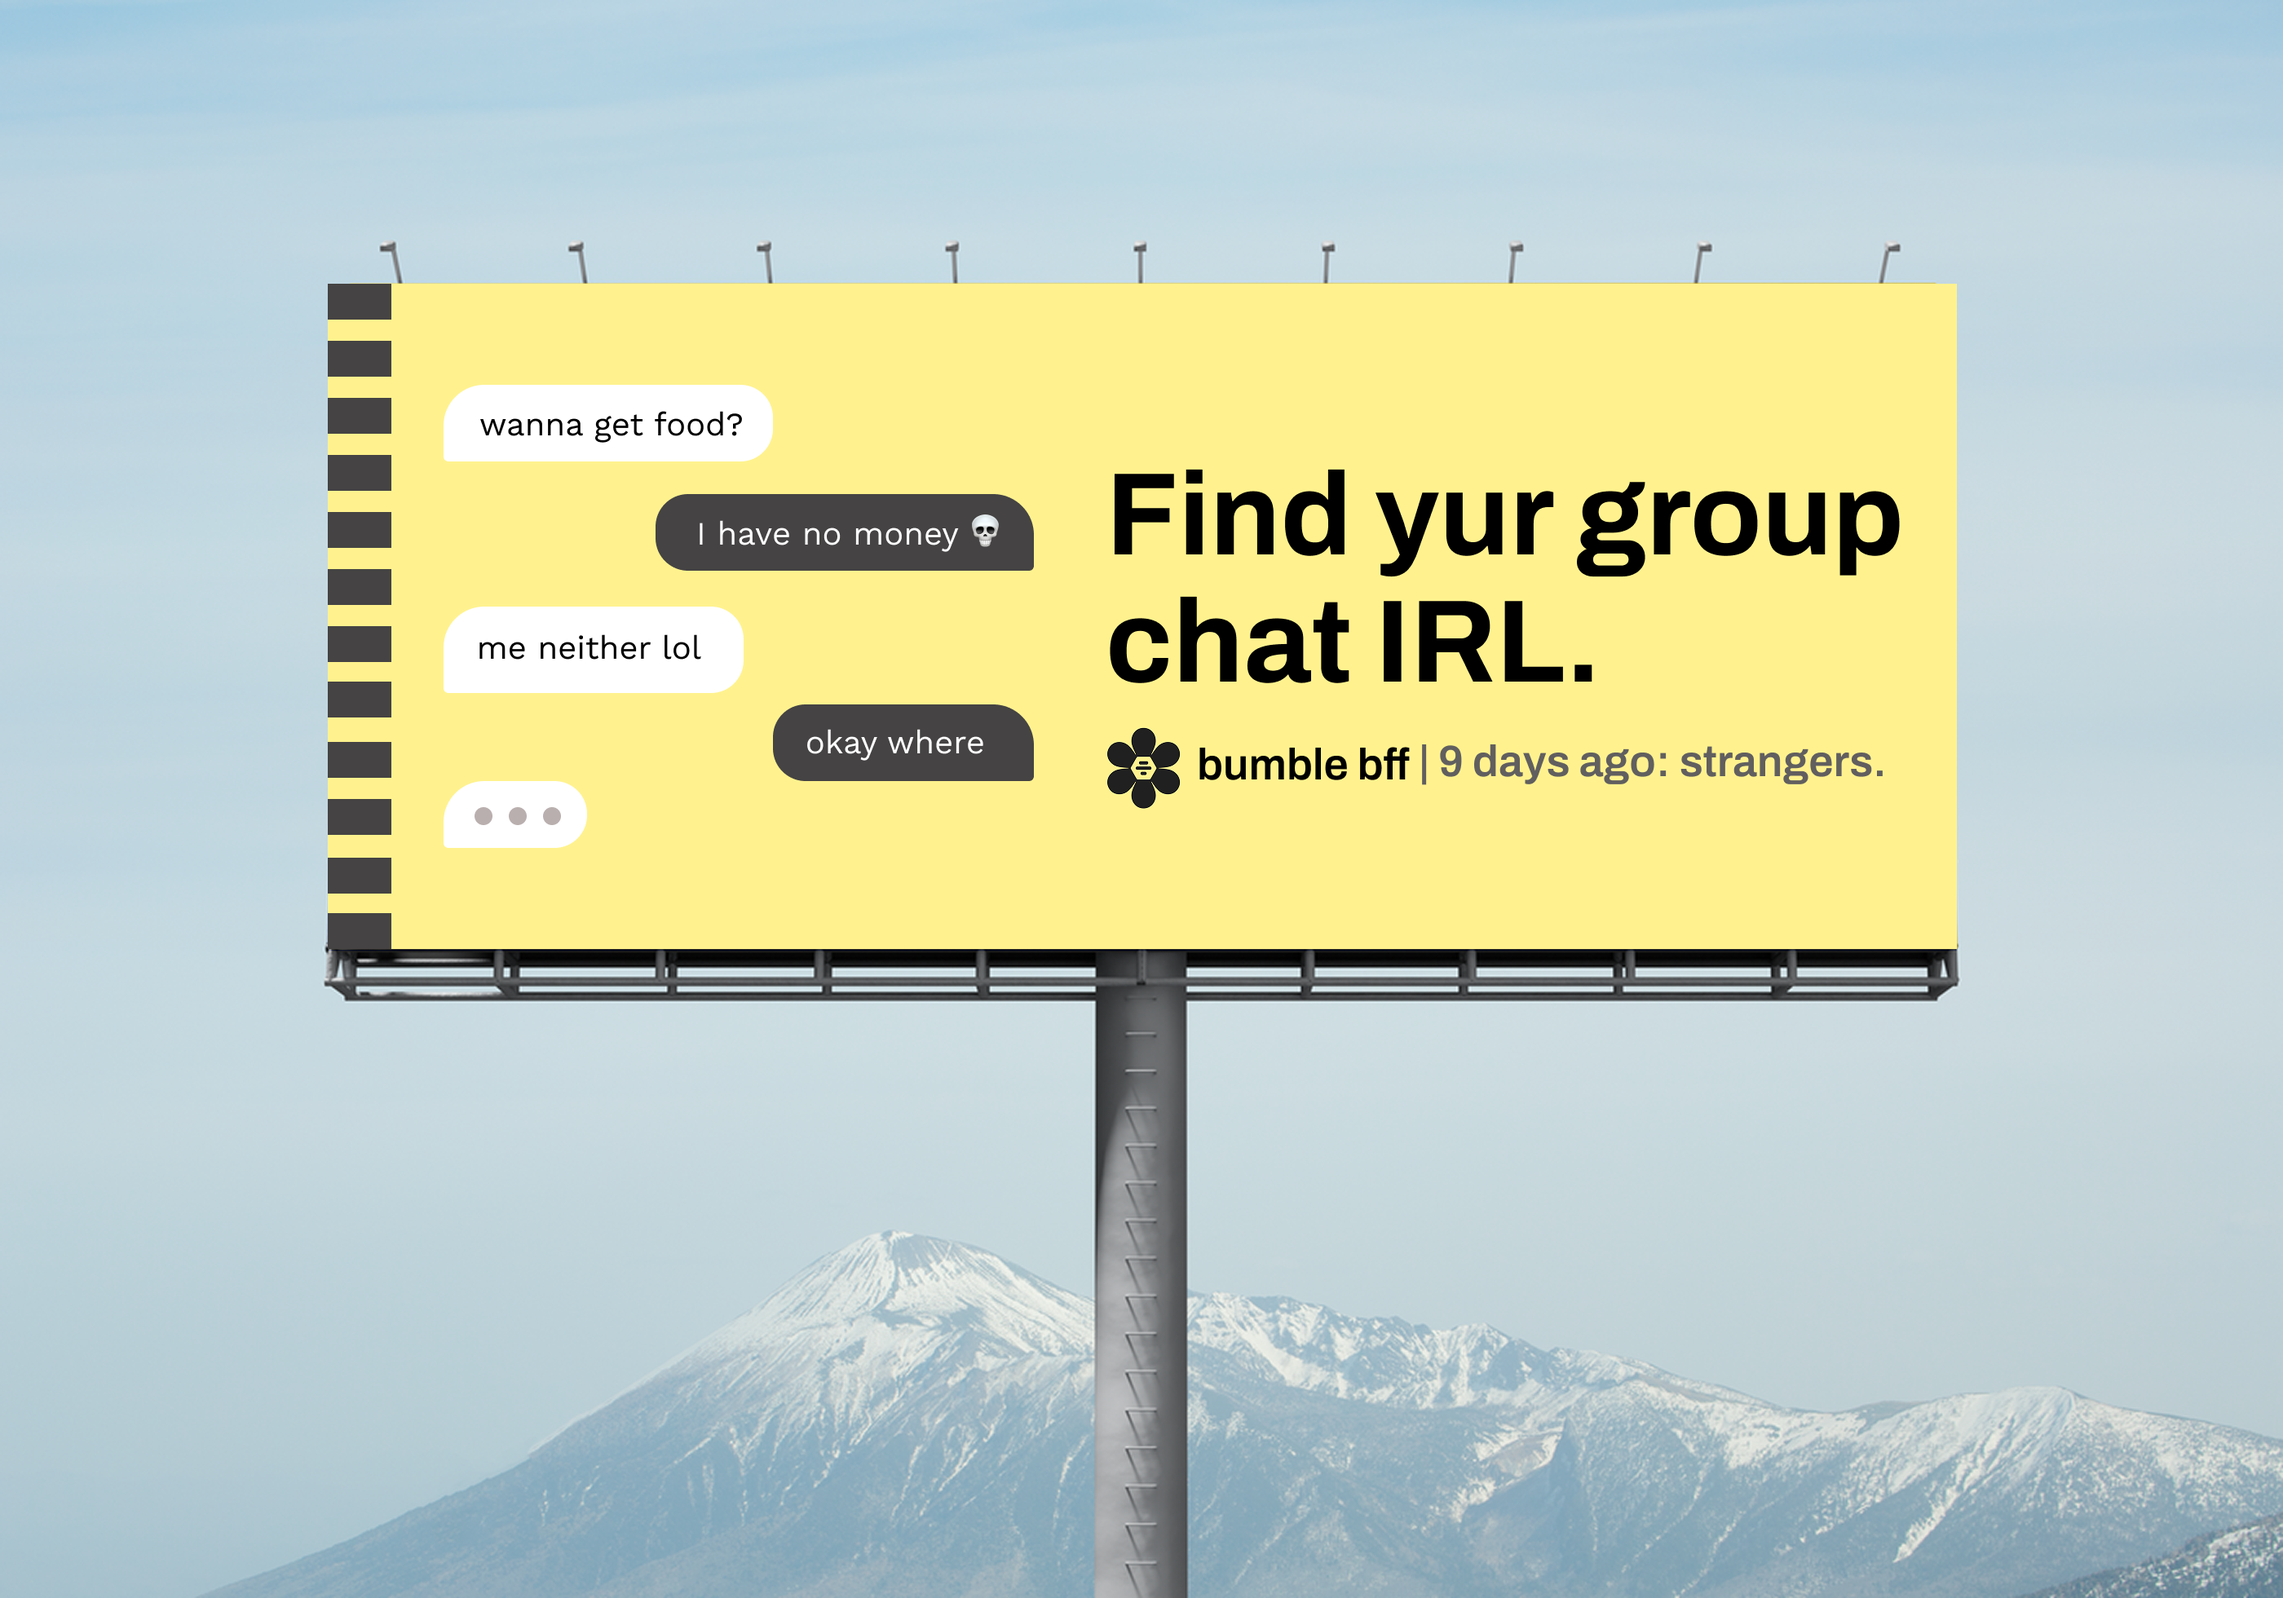
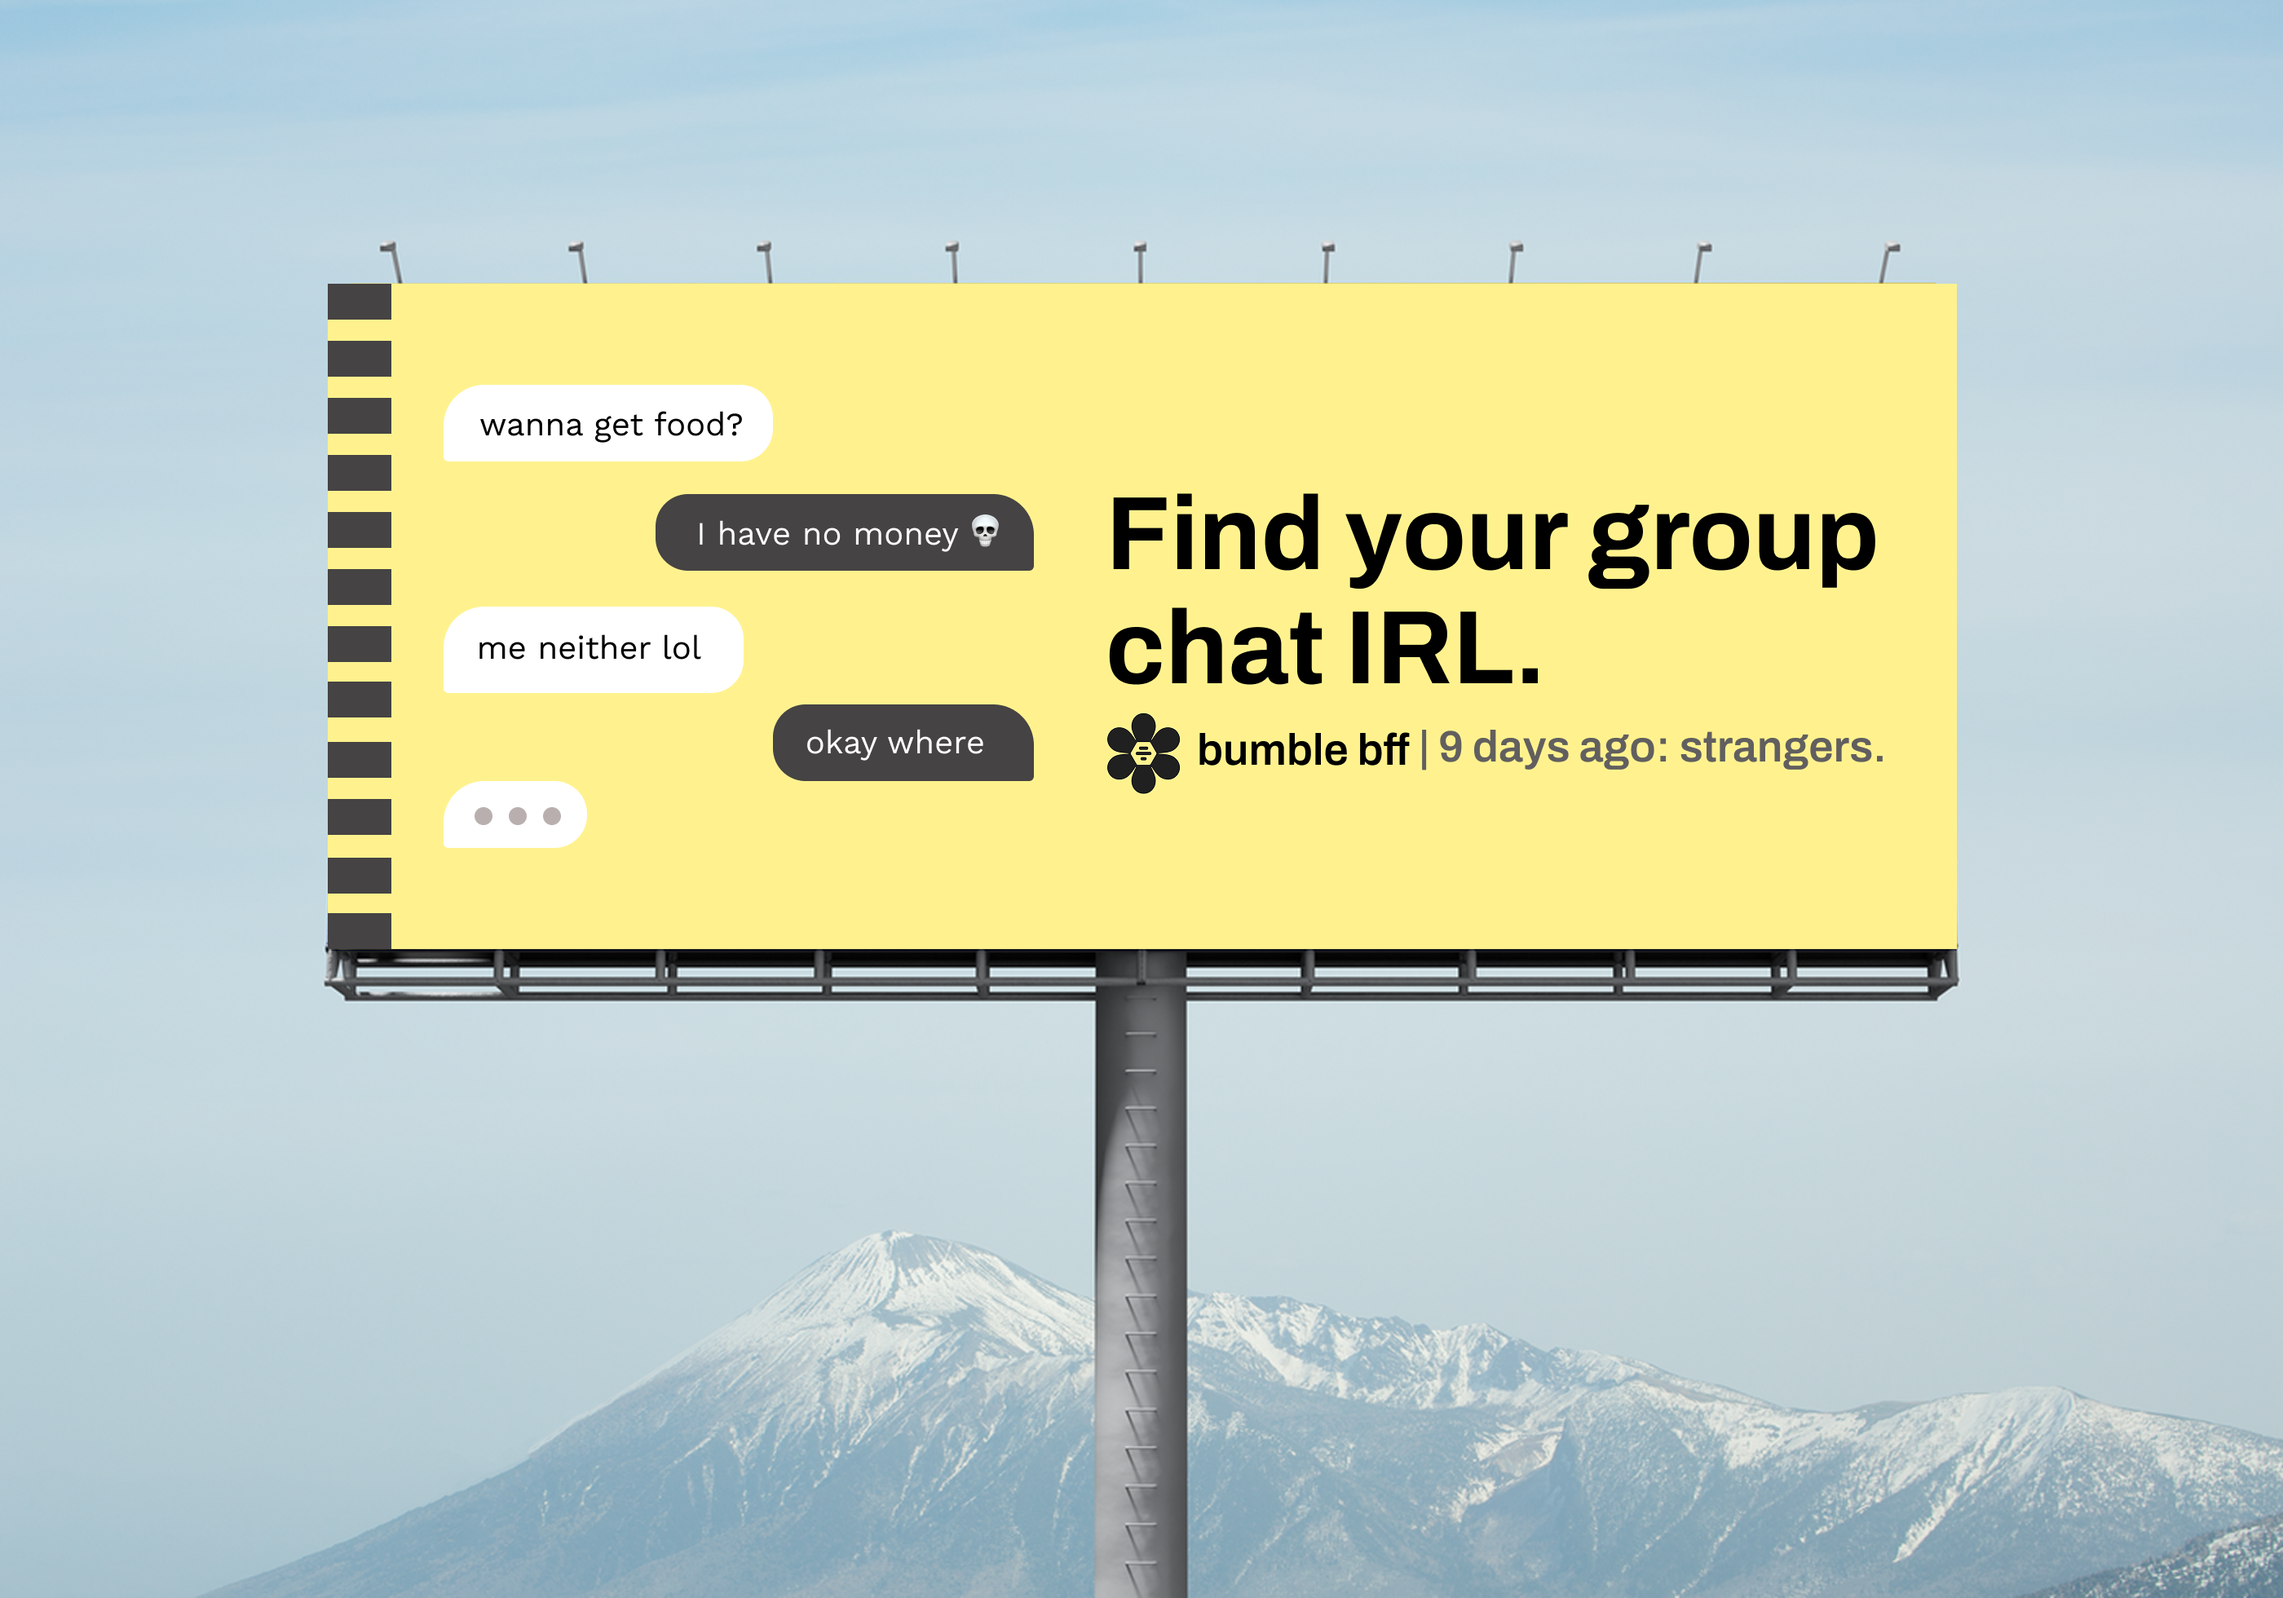
Fix typo in Bumble BFF billboard mockup ("yur" -> "your")
Swapped in the corrected billboard image and updated its headline
text to match. Bus wrap image was unchanged (byte-identical to the
previous upload), so left as-is with the stylized "yur" spelling.

Changed region(s): [[0.4661, 0.2801, 0.8389, 0.498]]

diff --git a/src/data/bumbleConcept.ts b/src/data/bumbleConcept.ts
@@ -25,7 +25,7 @@ export const bumbleConcept = {
       channel: 'OOH — Billboard',
       format: 'billboard' as const,
       image: 'bff-billboard.png',
-      headline: 'Find yur group chat IRL.',
+      headline: 'Find your group chat IRL.',
       support: '',
       why: "A quiet, wide-open backdrop makes a messy, familiar group chat feel like something worth chasing down. The thread on the left ('wanna get food?' / 'I have no money' / 'me neither lol') is close to word-for-word from a real conversation with friends I met through BFF.",
     },
